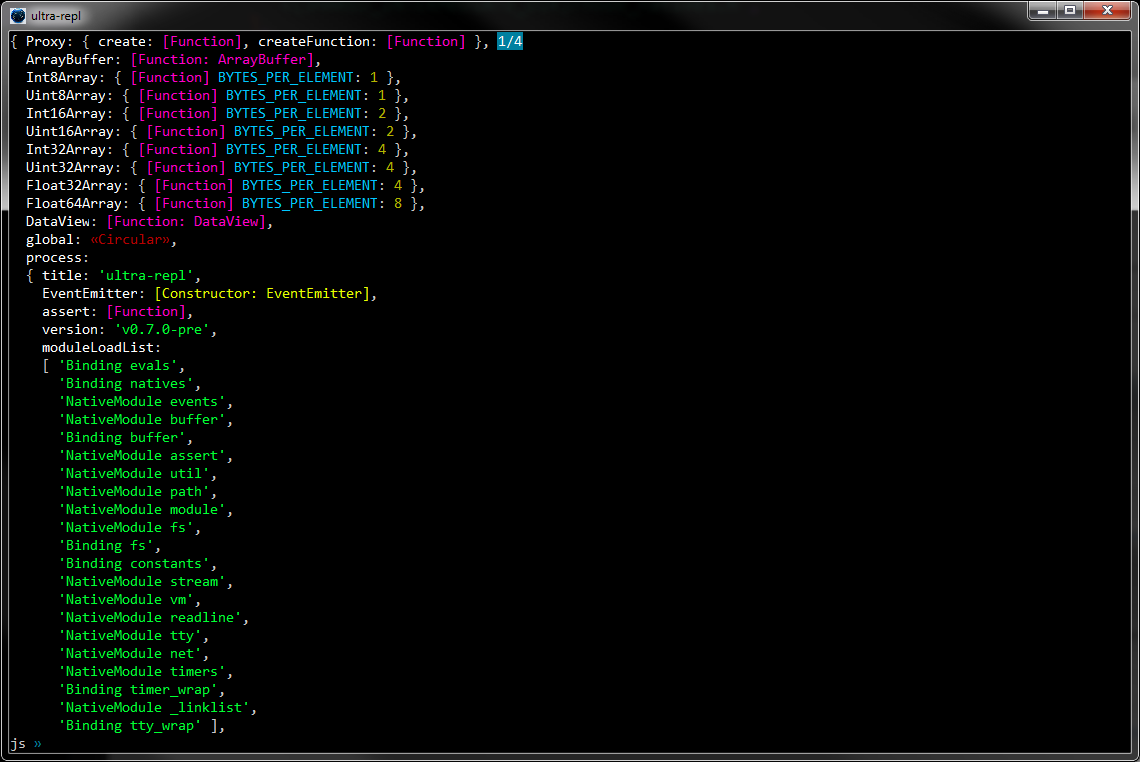
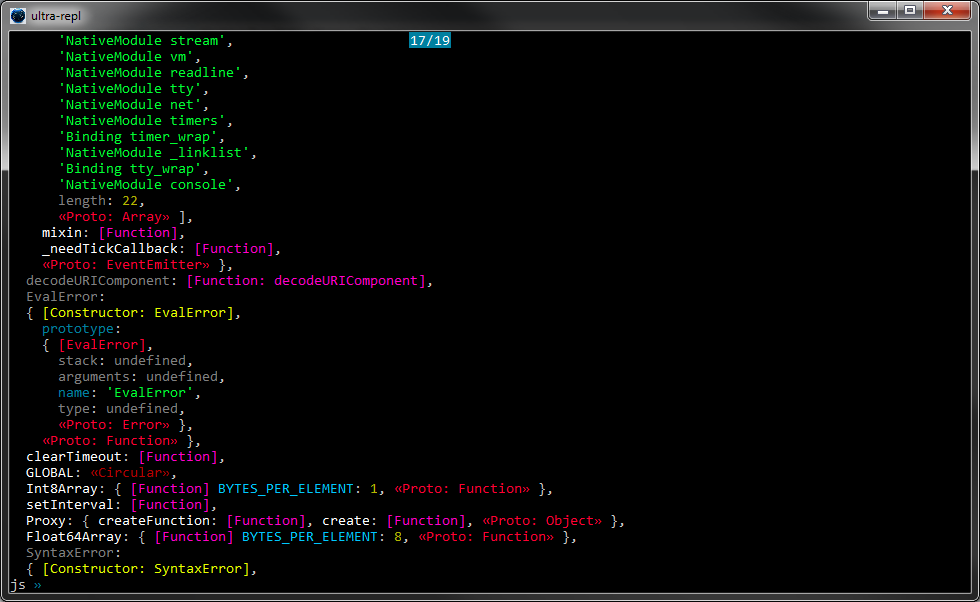
Fix require command to correctly add to the context object. Improve __proto__ display. Improve handling of display and detection of new globals along with standard returns.

Changed region(s): [[0.0, 0.0, 1.0, 1.0]]

diff --git a/lib/Context.js b/lib/Context.js
@@ -32,6 +32,7 @@ function Context(isGlobal){
   this.colors = !process.env.NODE_DISABLE_COLORS;
 
   this.scripts = [];
+  this.history = [];
   this.errors = [];
 
   if (isGlobal) {
@@ -73,12 +74,14 @@ Context.prototype = {
   },
   get ctx(){ return contexts.get(this) },
   set ctx(v){ contexts.set(this, v) },
+
   createInspector: function createInspector(){
     var uuid = UUID();
     this.outputHandler(uuid);
     run('_ = "' + uuid + '"', this.ctx);
     inspector.runInContext(this.ctx)
   },
+
   runScript: function runScript(script){
     this.scripts.push(script);
     this.ctx._ = 'snapshot';
@@ -86,39 +89,44 @@ Context.prototype = {
     script.globals = this.ctx._;
     return result;
   },
+
   runCode: function runCode(code, filename){
     var script = wrapCode(code, filename);
     if (script) {
       return this.runScript(script);
     }
   },
+
   runFile: function runFile(filename){
     var script = loadScript(filename);
     if (script) {
       return this.runScript(script);
     }
   },
+
   clone: function clone(){
     var context = new Context;
     context.builtins = this.builtins;
     context.hiddens  = this.hiddens;
-    context.depth = this.depth;
     context.colors = this.colors;
+    context.depth = this.depth;
     this.scripts.forEach(function(script){ context.runScript(script) });
     return context;
   },
+
   getEntities: function getEntities(){
     this.ctx._ = 'filter';
     return this.ctx._;
   },
+
   outputHandler: function outputHandler(id){
     var last, filter, inspect, O, globals, combine;
     var handler = save;
+    var ctx = this.ctx;
     var thisGlobal = global === this.ctx ? global : vm.runInContext('this', this.ctx);
-    var thisctx = this.ctx;
     function prop(name){
-      if (thisctx === global) return global[name];
-      return vm.runInContext('this['+name+']', thisctx);
+      if (ctx === global) return global[name];
+      return vm.runInContext('this['+name+']', ctx);
     }
 
     function install(obj){
@@ -134,20 +142,19 @@ Context.prototype = {
       return filter(thisGlobal, settings.builtins.all);
     }
 
-    function snapshot(obj){
-      format = output;
-      globals = O('getOwnPropertyNames', thisGlobal).filter(function(n){
-        return globals && !~globals.indexOf(n) && !~settings.builtins.all.indexOf(n);
-      });
-      return globals;
-    }
-
     function save(obj){
       last = { result: obj };
       if (globals) {
-        last.globals = globals;
-        globals = null;
+        globals = O('getOwnPropertyNames', thisGlobal).filter(function(n){
+          return ctx[n] !== last.result && !(n in obj) &&
+                 !~globals.indexOf(n) &&
+                 !~settings.builtins.all.indexOf(n);
+        });
+        if (globals.length > 0) {
+          last.globals = filter(thisGlobal, globals, true);
+        }
       }
+      globals = null;
     }
 
     var output = function output(){
@@ -156,10 +163,11 @@ Context.prototype = {
       if (!this.builtins && obj === thisGlobal) {
         obj = filter(obj, settings.builtins.all);
       }
-      if (Object(obj) === obj && last.globals) {
-        obj = combine(obj, filter(thisGlobal, last.globals, true));
+      var output = inspect(obj, this, settings.styling.inspector);
+      if (Object(obj) === obj && 'globals' in last) {
+        output += '\n**new globals**\n' + inspect(last.globals, this, settings.styling.inspector);
       }
-      return inspect(obj, this, settings.styling.inspector);
+      return output;
     }.bind(this);
 
     var format = output;
@@ -173,8 +181,7 @@ Context.prototype = {
         if (v === id) return handler = install;
         if (v === 'filter') return format = filtered;
         if (v === 'snapshot' && typeof O !== 'undefined') {
-          globals = O('getOwnPropertyNames', thisGlobal);
-          return format = snapshot;
+          return globals = O('getOwnPropertyNames', thisGlobal);
         }
         handler(v);
       }

diff --git a/lib/UltraREPL.js b/lib/UltraREPL.js
@@ -61,21 +61,11 @@ function UltraREPL(options){
   var complete = this.complete.bind(this);
   var rli = this.rli = new UltraRLI(stream, complete);
 
-
-  rli.on('close', function(a, b, c) {
-    fs.writeFileSync('err.log', util.inspect(this, a, b, c, true) + '\n' + util.inspect(global, true, 4));
-    stream.input.destroy();
-  });
-
+  rli.on('close', stream.input.destroy.bind(stream.input));
   rli.on('resize', this.refresh.bind(this));
-
   rli.on('line', function(cmd){
-    if (!(cmd = cmd.trim())) return
-
-    if (this.keyword(cmd) !== false) return;
-
-    var m = cmd.match(/^([^\s]+)\s+(.*)$/);
-    if (m !== null && this.keyword(m[1], m[2]) !== false) return
+    cmd = cmd.trim();
+    if (!cmd || this.keyword(cmd) !== false) return;
 
     this.buffered.push(cmd);
     var evaled = context.evaluate(this.buffered.join('\n'));
@@ -93,26 +83,8 @@ function UltraREPL(options){
   commands(this);
   this.context.columns = this.width - 20;
   this.updatePrompt();
-
-
-  var intro = require('../settings/text').intro.map(function(s){
-    return s[0].color(style.intro[0]) + ' ' + s[1].color(style.intro[1]);
-  });
-
-  var seehelp = [ 'press'.color(style.help.intro),
-                  this.help[0].trigger.color(style.help[this.help[0].type]),
-                  'to see command list'.color(style.help.intro) ].join(' ');
-
-
-  seehelp = ' '.repeat((intro[0].alength - seehelp.alength) / 2 | 0) + seehelp;
-  intro.push('', seehelp);
-
+  this.loadScreen();
   this.help = generateHelp(this.help, this.width);
-
-  this.rli.fill();
-  this.resetScreen();
-  this.rli.writeFrom(intro, (this.height - 4 - intro.length) / 2 | 0, (this.width - intro[0].alength) / 2 | 0);
-
   this.pages = (new Results).bisect(this.height - 1);
 }
 
@@ -124,9 +96,29 @@ UltraREPL.prototype = {
   get height(){ return this.rli.height },
   get width(){ return this.rli.width },
 
-  keyword: function keyword(cmd, params){
-    if (this.commands.has(cmd)) {
-      var result = this.commands[cmd].call(this, cmd, params);
+  loadScreen: function loadScreen(){
+    this.rli.fill();
+    this.resetScreen();
+
+    var intro = require('../settings/text').intro.map(function(s){
+      return s[0].color(style.intro[0]) + ' ' + s[1].color(style.intro[1]);
+    });
+
+    var seehelp = [ 'press'.color(style.help.intro),
+                    this.help[0].trigger.color(style.help[this.help[0].type]),
+                    'to see command list'.color(style.help.intro) ].join(' ');
+
+    seehelp = ' '.repeat((intro[0].alength - seehelp.alength) / 2 | 0) + seehelp;
+    intro.push('', seehelp);
+
+    this.rli.writeFrom(intro, (this.height - 4 - intro.length) / 2 | 0, (this.width - intro[0].alength) / 2 | 0);
+
+  },
+
+  keyword: function keyword(cmd){
+    var m = cmd.match(/^([^\s]+)\s+(.*)$/);
+    if (m !== null && this.commands.has(m[1])) {
+      var result = this.commands[m[1]].call(this, cmd, m[2]);
       if (result !== undefined) {
         this.context._ = result;
         this.inspector(this.context._);

diff --git a/lib/inspect.js b/lib/inspect.js
@@ -126,25 +126,32 @@ var callbind = Function.prototype.call.bind.bind(Function.prototype.call);
 var errorToString = callbind(Error.prototype.toString);
 
 // formatter for functions shared with constructor formatter
-function functionLabel(fn, isCtor) {
-  var type = isCtor ? 'Constructor' : 'Function',
-      label = fn.name ? ': ' + fn.name : '';
-  return '[' + type + label + ']';
+function functionLabel(fn, type) {
+  return '[' + type + (fn.name ? ': ' + fn.name : '') + ']';
 }
-
+var noop = function(){}
 
 // most formatting determined by internal [[class]]
 var formatters = {
   Boolean     : String,
-  Constructor : function(f){ return functionLabel(f, true); },
+  Constructor : function(f){ return functionLabel(f, 'Constructor'); },
   Date        : callbind(Date.prototype.toString),
   Error       : function(e){ return '[' + errorToString(e) + ']'; },
-  Function    : function(f){ return functionLabel(f, false); },
+  Function    : function(f){ return functionLabel(f, 'Function'); },
   Null        : String,
   Number      : String,
   RegExp      : callbind(RegExp.prototype.toString),
   String      : quotes,
-  Undefined   : String
+  Undefined   : String,
+  Proto   : function(f){
+    var name = '';
+    if (f === null) {
+      name = 'Null';
+    } else if (Object(f) === f && 'constructor' in f) {
+      name = f.constructor.name;
+    }
+    return 'Proto' + (name ? ': ' + name : '');
+  }
 };
 
 
@@ -246,12 +253,9 @@ function formatValue(value, key, depth, settings) {
     }
   }
 
-  if (settings.showProtos) {
-    var proto = value.__proto__; //Object.getPrototypeOf(value);
-    if (!~builtins.indexOf(proto)) {
-      properties.push('__proto__');
-    }
-  }
+  //if (settings.showProtos && !~builtins.indexOf(proto)) {
+  //  properties.push('__proto__');
+  //}
 
   settings.seen.push(value);
 
@@ -277,6 +281,11 @@ function formatValue(value, key, depth, settings) {
       }
     }
   });
+
+  if (settings.showProtos) {
+    var proto = Object.getPrototypeOf(value);
+    output.push(settings.style(formatters.Proto(proto), 'Proto', true));
+  }
 
   return combine(output, base, braces, settings.maxWidth - key.alength - 6 - depth * 2);
 }

diff --git a/lib/commands.js b/lib/commands.js
@@ -175,17 +175,17 @@ var commands = {
       var name = parts[0];
 
       if (parts.length === 2) {
-        var lib = this.context[name] = require(parts[1]);
+        var lib = this.context.ctx[name] = require(parts[1]);
       } else {
         var lib = require(parts[0]);
         if (typeof lib === 'function' && lib.name.length) {
-          this.context[lib.name] = lib;
+          this.context.ctx[lib.name] = lib;
         } else if (Object.prototype.toString.call(lib) === '[object Object]') {
           Object.keys(lib).forEach(function(name){
-            this.context[name] = lib[name];
+            this.context.ctx[name] = lib[name];
           }, this);
         } else {
-          this.context[name] = lib;
+          this.context.ctx[name] = lib;
         }
       }
 

diff --git a/lib/UltraRLI.js b/lib/UltraRLI.js
@@ -20,9 +20,7 @@ var mounts = {
     y: 'top',
     align: 'center'
   }
-}
-
-
+};
 
 
 function UltraRLI(stream, completer){
@@ -213,7 +211,7 @@ UltraRLI.prototype = {
     if (mount.align === 'right') {
       mount.left -= mount.width;
     } else if (mount.align === 'center') {
-      mount.left -= mount.width / 2;
+      mount.left -= mount.width / 2 | 0;
     }
     this.cursor = this.line.alength;
     this.output.cursorTo(mount.left, mount.top);

diff --git a/settings/styling.js b/settings/styling.js
@@ -9,6 +9,7 @@ var styling = function(){
       Null        : black2,
       // constructor functions
       Constructor : yellow2,
+      Proto       : red2,
       // normal types
       Function    : magenta2,
       Boolean     : yellow2,
